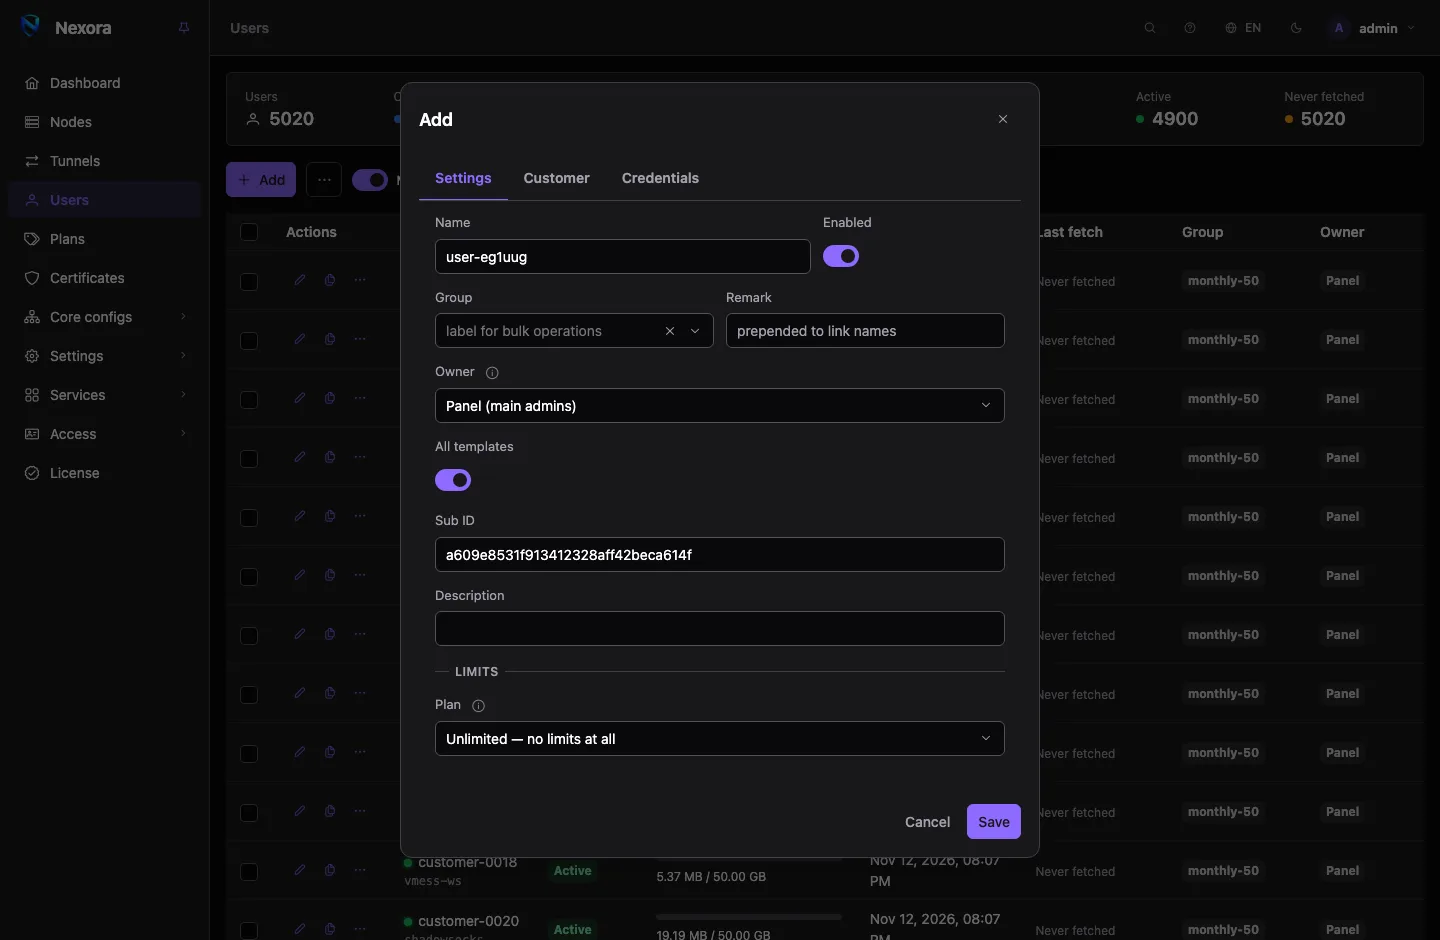
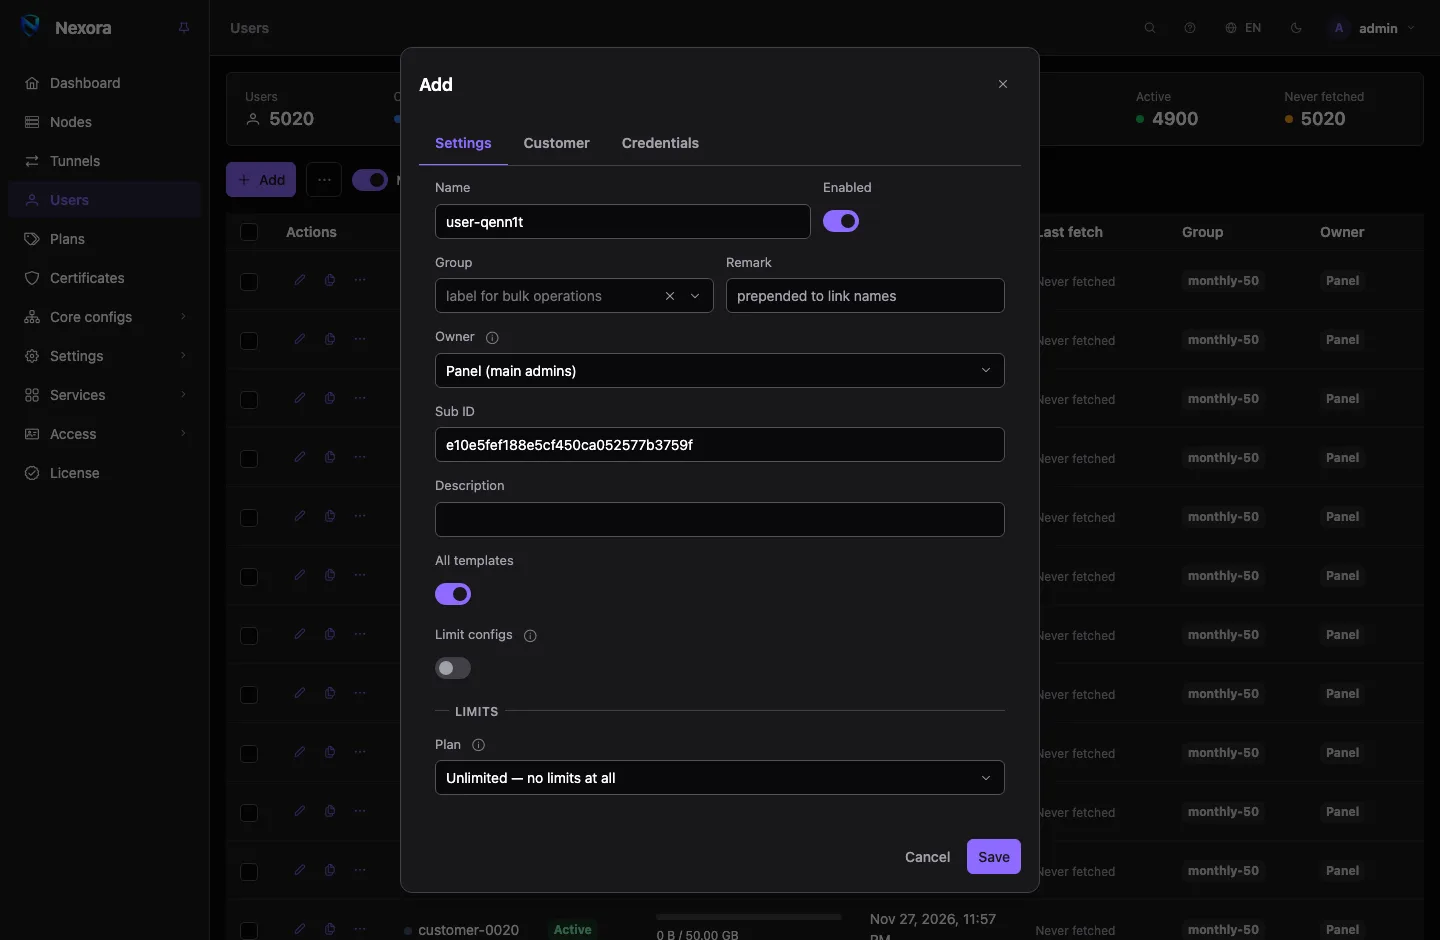
docs: sync api spec, retake new-user shots

diff --git a/src/ru/use/users.md b/src/ru/use/users.md
@@ -117,9 +117,10 @@ tags: [users, subscriptions]
 | **Группа** | произвольная метка, чтобы находить учётные записи и действовать над ними вместе. См. [[use/user-operations]]. |
 | **Примечание** | ставится перед именем каждой записи в приложении клиента |
 | **Владелец** | только главные администраторы: кому принадлежит учётная запись — администратору, [[~reseller\|реселлеру]] или **Панель (главные администраторы)**. Создать пользователя для другого может только главный администратор; запись, созданная администратором, всегда его собственная. Записи реселлера расходуют его квоту, записи администратора — нет. |
-| **Все шаблоны**, **Шаблоны** | на каких шаблонах, а значит и узлах, обслуживается учётная запись (см. ниже) |
 | **ID подписки** | идентификатор в ссылке на подписку учётной записи. Оставьте созданный автоматически. |
 | **Описание** | заметка для вас |
+| **Все шаблоны**, **Шаблоны** | на каких шаблонах, а значит и узлах, обслуживается учётная запись (см. ниже) |
+| **Ограничить конфигурации** | аккаунт обслуживается только на части инбаундов и эндпоинтов своих шаблонов (ниже) |
 
 ### Лимиты {#limits}
 

diff --git a/src/fa/use/users.md b/src/fa/use/users.md
@@ -107,9 +107,10 @@ tags: [users, subscriptions]
 | **گروه** | برچسبی آزاد برای پیدا کردن حسابها و کار روی آنها با هم. [[use/user-operations]] را ببینید. |
 | **برچسب** | جلوی نام هر ورودی در اپ مشتری میآید |
 | **مالک** | فقط ادمینهای اصلی: این حساب مال کیست — یک ادمین، یک [[~reseller\|نماینده]]، یا **پنل (مدیران اصلی)**. فقط ادمین اصلی میتواند برای دیگری کاربر بسازد؛ حسابی که یک ادمین میسازد همیشه مال خودش است. حسابهای نماینده از سهمیهٔ او کم میکنند؛ حسابهای ادمین نه. |
-| **همه تمپلیتها**، **تمپلیتها** | حساب روی کدام قالبها، و در نتیجه کدام نودها، سرو میشود (پایینتر) |
 | **شناسه اشتراک** | شناسهای که در لینک اشتراک حساب میآید. همانطور که ساخته شده بگذارید. |
 | **توضیحات** | یادداشتی برای خودتان |
+| **همه تمپلیتها**، **تمپلیتها** | حساب روی کدام قالبها، و در نتیجه کدام نودها، سرو میشود (پایینتر) |
+| **محدود کردن کانفیگها** | حساب فقط روی بعضی از اینباندها و اندپوینتهای تمپلیتهایش سرو میشود (پایینتر) |
 
 ### محدودیتها {#limits}
 

diff --git a/src/zh/use/endpoints.md b/src/zh/use/endpoints.md
@@ -62,7 +62,7 @@ tags: [protocols]
 
 ## 向外连接 {#connecting-out}
 
-`openvpn-client` 端点列出它的**服务器**，按顺序（或随机）尝试，直到有一个响应；每个都有自己的端口和网络。在 `tls` 模式下，它需要用户名和密码、服务器的 CA 证书，以及在**控制通道保护**中填写服务器运营者提供的密钥。在 `static_key` 模式下，它需要静态密钥、加密算法和隧道地址。压缩只为不开启就无法连接的旧服务器提供，并带有警告：在加密隧道上它会泄露所传输的内容。
+`openvpn-client` 端点列出它的**服务器**，按顺序（或随机）尝试，直到有一个响应；每个都有自己的端口和网络。拖动服务器的手柄即可调整顺序。在 `tls` 模式下，它需要用户名和密码、服务器的 CA 证书，以及在**控制通道保护**中填写服务器运营者提供的密钥。在 `static_key` 模式下，它需要静态密钥、加密算法和隧道地址。压缩只为不开启就无法连接的旧服务器提供，并带有警告：在加密隧道上它会泄露所传输的内容。
 
 `openconnect` 端点可以用**一次性密码**（TOTP 或 RSA SecurID）回应第二因素认证，用**登录表单答案**回应额外的登录字段，因为节点上没有人可以输入它们。证书以文本粘贴；表单不引用节点上的任何文件。
 

diff --git a/src/fa/use/endpoints.md b/src/fa/use/endpoints.md
@@ -93,7 +93,8 @@ OpenConnect این مجموعه **Client IP pool (CIDR)** است، همراه **
 ## اتصال به بیرون {#connecting-out}
 
 اندپوینت `openvpn-client` **سرورها**ی خود را فهرست میکند که به ترتیب (یا بهطور
-تصادفی) امتحان میشوند تا یکی جواب دهد؛ هرکدام پورت و شبکهی خودش را دارد. در
+تصادفی) امتحان میشوند تا یکی جواب دهد؛ هرکدام پورت و شبکهی خودش را دارد، و ترتیبشان با کشیدن سرور از دستگیرهاش عوض
+میشود. در
 حالت `tls` نام کاربری و گذرواژه، گواهی CA سرور و زیر **محافظت از کانال کنترل** کلیدی
 را میگیرد که گردانندهی سرور به شما داده است. در حالت `static_key` کلید ثابت،
 cipher و آدرسهای تونل را میگیرد. فشردهسازی برای سرورهای قدیمی که بدون آن وصل

diff --git a/src/use/users.md b/src/use/users.md
@@ -110,9 +110,10 @@ Press **Add**. The form has three tabs: **Settings**, **Customer** and
 | **Group** | a free label for finding and acting on accounts together. See [[use/user-operations]]. |
 | **Remark** | put in front of the name of every entry in the customer's app |
 | **Owner** | main admins only: who the account belongs to — an admin, a [[~reseller]], or **Panel (main admins)**. Only a main admin can create a user for somebody else; an account an admin creates is always the admin's own. A reseller's accounts count against its allowance; an admin's do not. |
-| **All templates**, **Templates** | which templates, and so which nodes, the account is served on (below) |
 | **Sub ID** | the identifier in the account's subscription link. Leave it as generated. |
 | **Description** | a note for you |
+| **All templates**, **Templates** | which templates, and so which nodes, the account is served on (below) |
+| **Limit configs** | serve the account only on some of its templates' inbounds and endpoints (below) |
 
 ### Limits
 

diff --git a/src/zh/use/users.md b/src/zh/use/users.md
@@ -78,9 +78,10 @@ tags: [users, subscriptions]
 | **分组** | 一个自由填写的标签，便于一起查找和处理账户。见 [[use/user-operations]]。 |
 | **备注** | 加在客户应用中每个条目名称的前面 |
 | **归属** | 仅限主管理员：该账户归谁——某个管理员、某个[[~reseller\|代理商]]，或**面板（超级管理员）**。只有主管理员能为他人创建用户；管理员创建的账户始终归其本人。代理商的账户计入其配额，管理员的不计。 |
-| **全部模板**、**模板** | 账户在哪些模板上、也就是哪些节点上提供服务（见下文） |
 | **订阅 ID** | 账户订阅链接中的标识。保持自动生成的值即可。 |
 | **说明** | 给你自己看的备忘 |
+| **全部模板**、**模板** | 账户在哪些模板上、也就是哪些节点上提供服务（见下文） |
+| **限制配置** | 账户只在其模板的部分入站和端点上提供服务（见下文） |
 
 ### 限额 {#limits}
 

diff --git a/src/use/endpoints.md b/src/use/endpoints.md
@@ -94,7 +94,8 @@ See [[protocols/openvpn]] for the options and for client apps.
 ## Connecting out
 
 An `openvpn-client` endpoint lists its **Servers**, tried in order until one
-answers (or at random); each has its own port and network. In `tls` mode it
+answers (or at random); each has its own port and network. Drag a server by
+its handle to change the order. In `tls` mode it
 takes a username and password, the server's CA certificate and, under
 **Control channel protection**, the key the server's operator gives you. In
 `static_key` mode it takes the static key, the cipher and its tunnel
